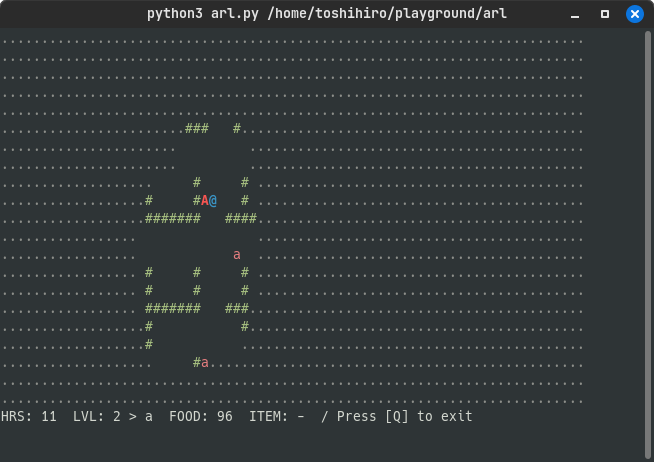
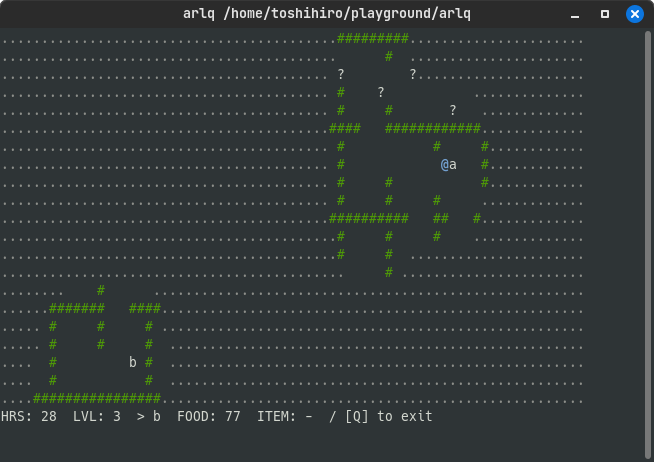
fix: change color of monster chars (red -> white)

diff --git a/arlq/arlq.py b/arlq/arlq.py
@@ -298,6 +298,7 @@ def draw_stage(
                 stdscr.addstr(t.y, t.x, CHAR_TREASURE, curses.color_pair(4) | curses.A_BOLD)
 
     if show_entities:
+        attr = curses.A_DIM
         for o in objects:
             if isinstance(o, Monster):
                 m = o
@@ -305,11 +306,11 @@ def draw_stage(
                     continue
 
                 ch = m.kind.char
-                stdscr.addstr(m.y, m.x, ch)
+                stdscr.addstr(m.y, m.x, ch, attr)
             elif isinstance(o, Treasure):
                 t = o
                 if CHAR_TREASURE not in encountered_types:
-                    stdscr.addstr(t.y, t.x, CHAR_TREASURE)
+                    stdscr.addstr(t.y, t.x, CHAR_TREASURE, attr)
 
 
 def player_attack_by_level(player: Player) -> int:
@@ -349,7 +350,7 @@ def draw_status_bar(stdscr: curses.window, player: Player, hours: int, message: 
         buf.append("> %s" % beatable.char)
     buf.append("FOOD: %d" % player.food)
     buf.append(item_str)
-    buf.append("/ Press [Q] to exit")
+    buf.append("/ [Q] to exit")
     stdscr.addstr(FIELD_HEIGHT, 0, "  ".join(buf))
 
     if message:
@@ -591,7 +592,7 @@ def main():
     curses.use_default_colors()
     curses.init_pair(1, curses.COLOR_GREEN, -1)  # wall
     curses.init_pair(2, curses.COLOR_BLUE, -1)  # player
-    curses.init_pair(3, curses.COLOR_RED, -1)  # monster
+    curses.init_pair(3, curses.COLOR_WHITE, -1)  # monster
     curses.init_pair(4, curses.COLOR_YELLOW, -1)  # treasure
 
     try:

diff --git a/arlq/_version.py b/arlq/_version.py
@@ -1,1 +1,1 @@
-__version__ = "1.0.5"
+__version__ = "1.0.6"
